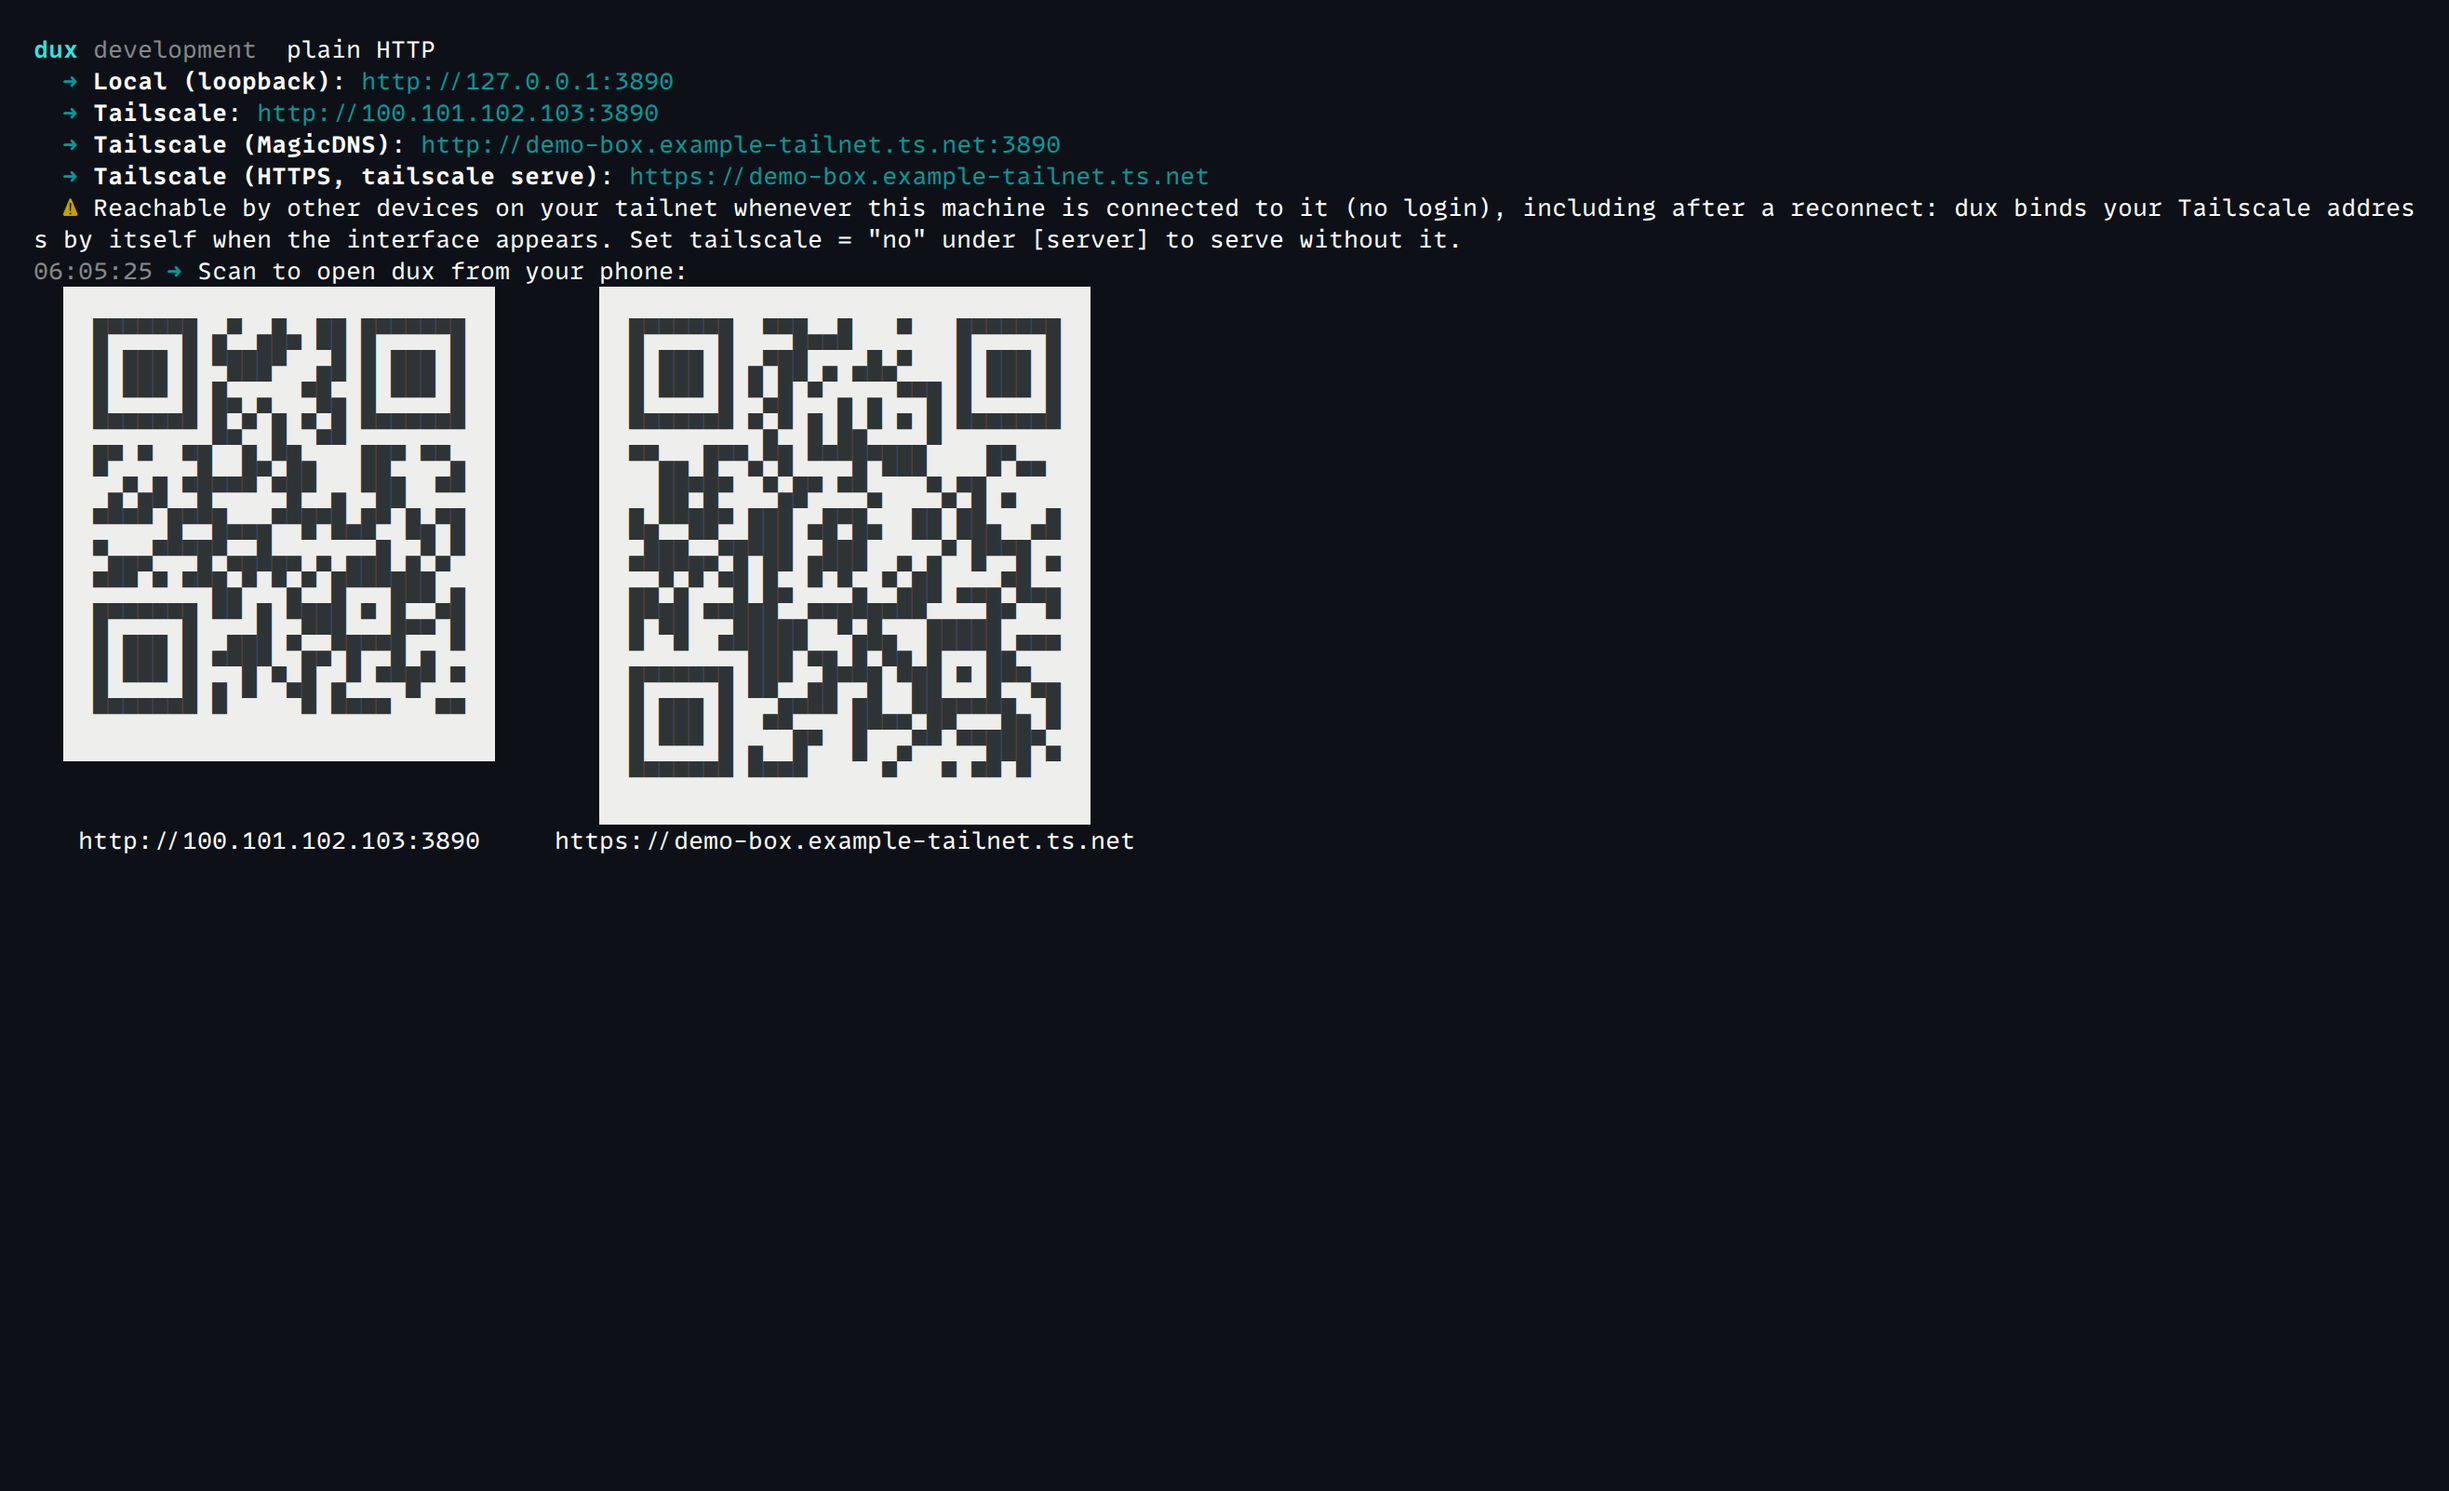
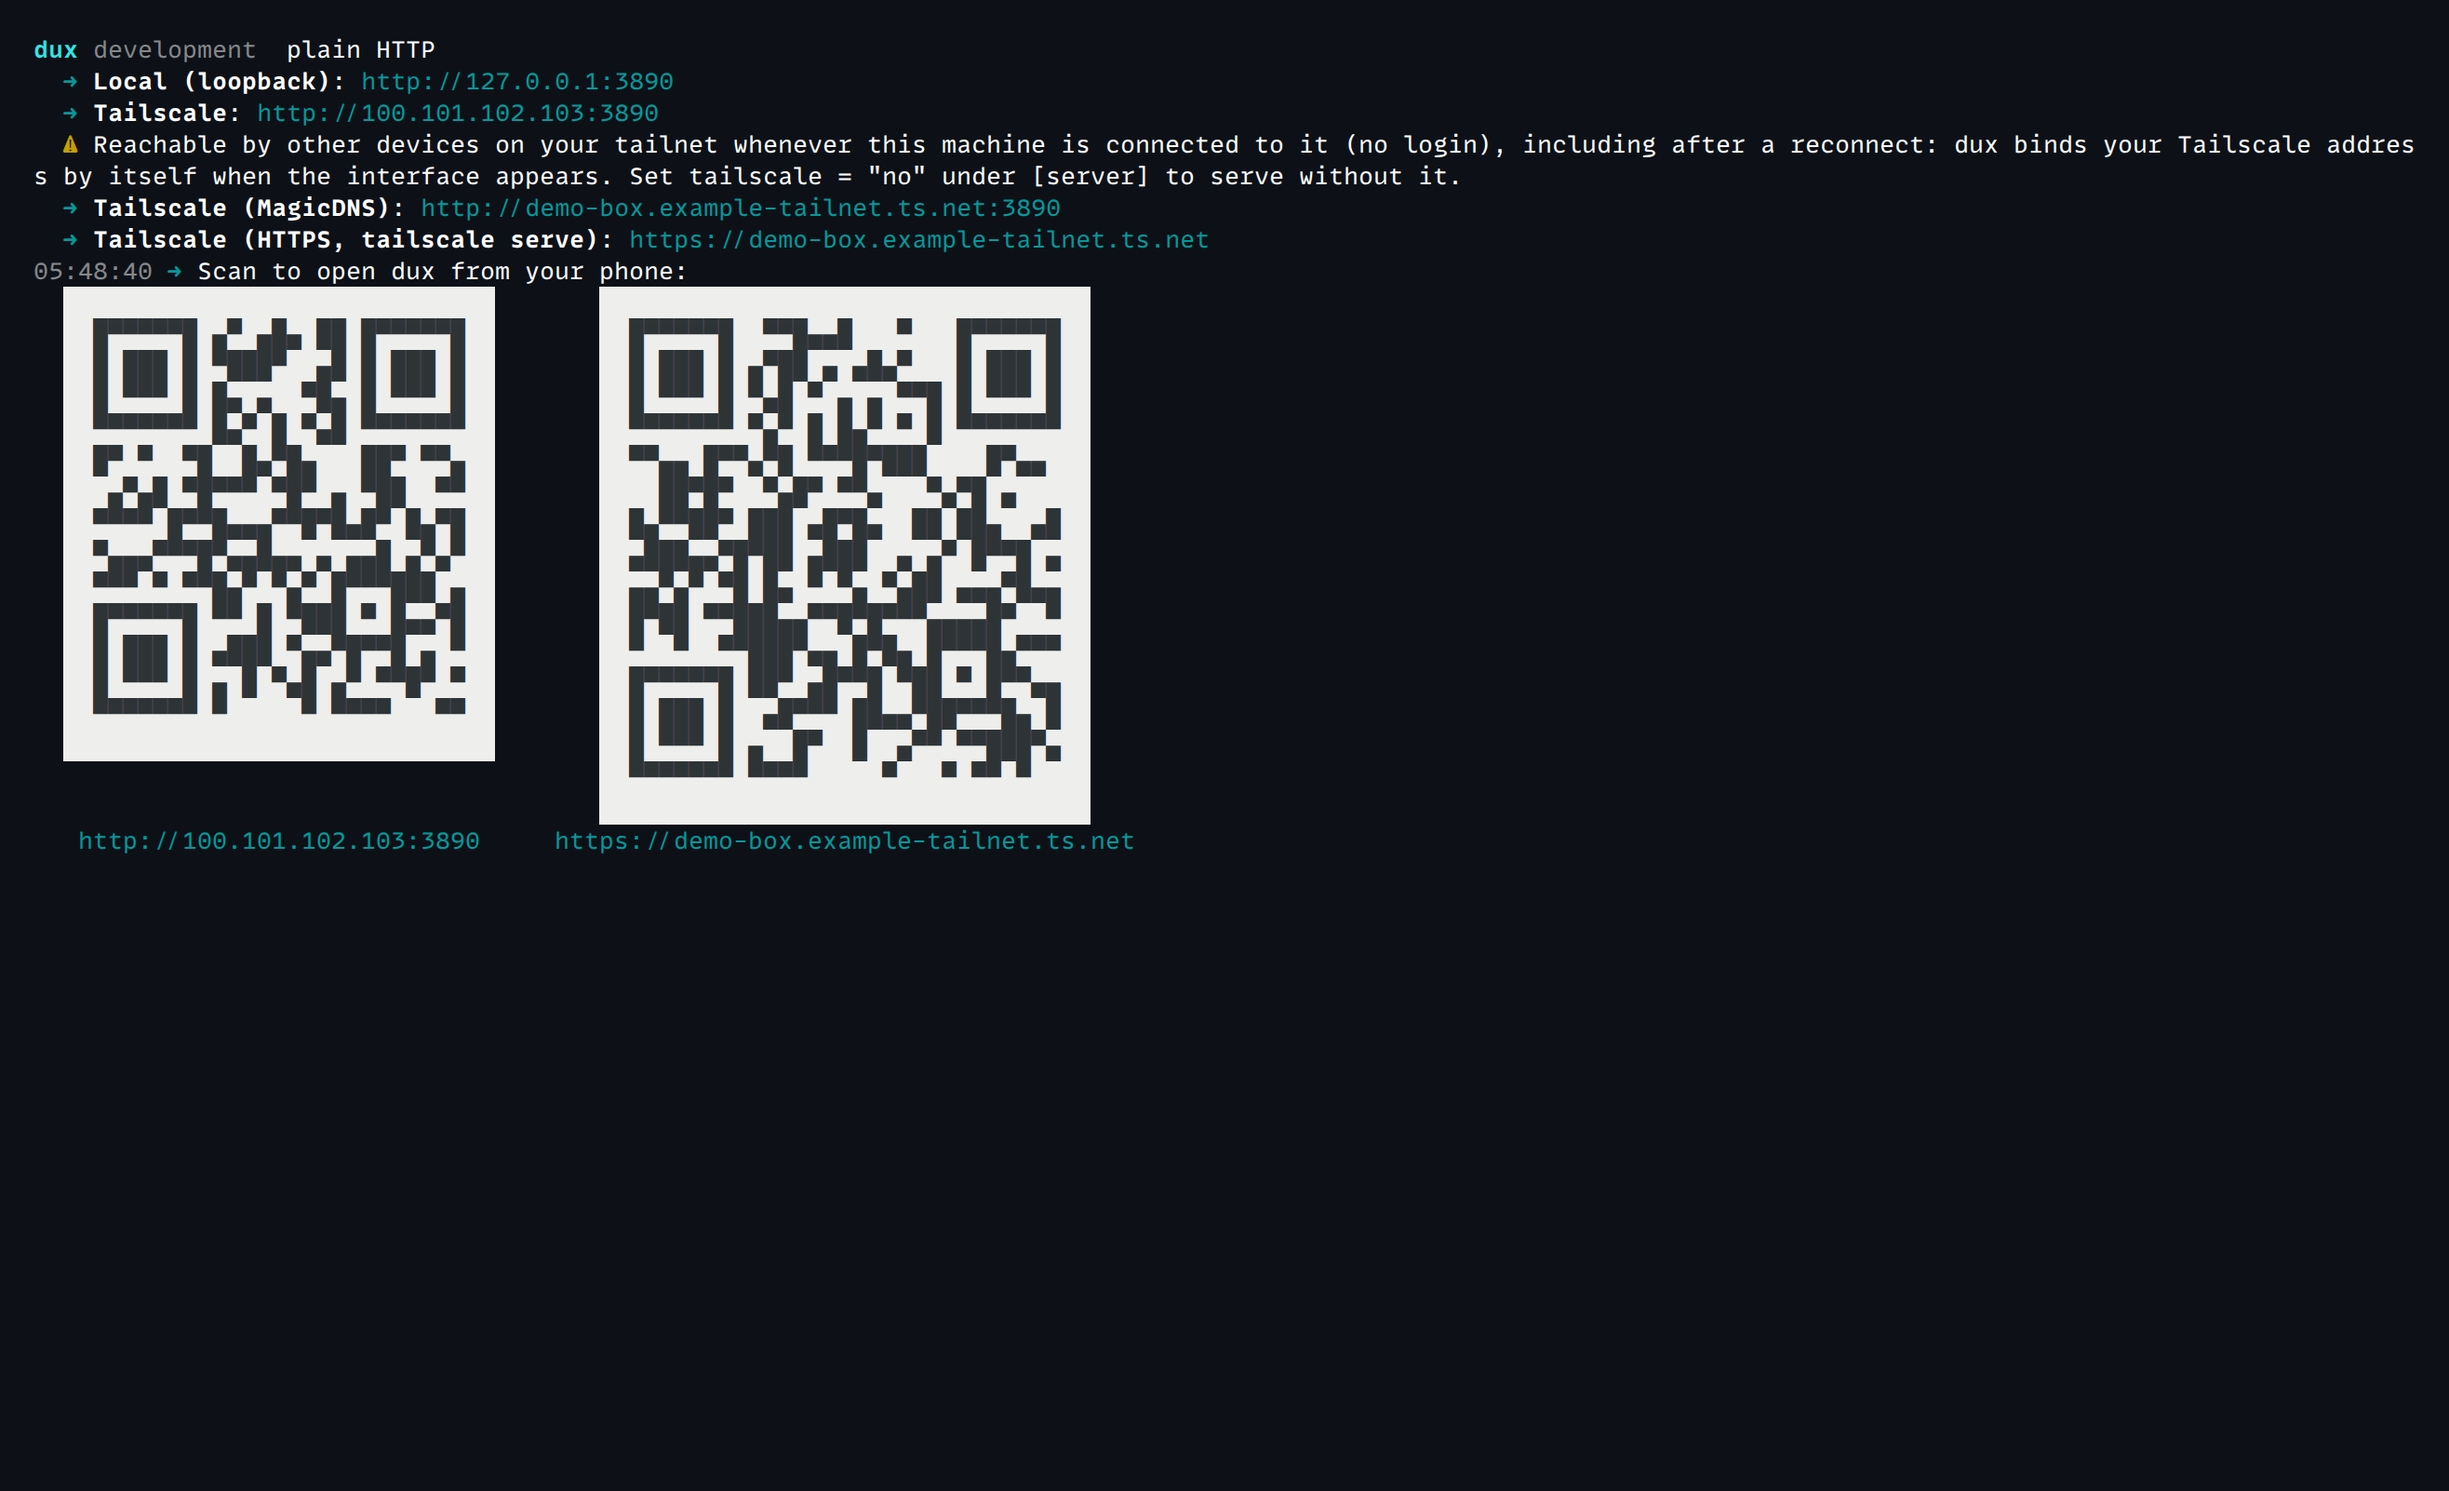
Hold the QR codes until the first look at Tailscale has answered, so the flip no longer prints a code for the Tailscale IP alone and then a second set when the name arrives, and reshoot both QR screenshots with the rows and codes as log lines

diff --git a/tools/preview-env/screens/scenes/tui-flip-qr-codes.js b/tools/preview-env/screens/scenes/tui-flip-qr-codes.js
@@ -1,6 +1,7 @@
 // The start-web-server flip's status screen on a tailnet where `tailscale serve`
-// already points at dux: the same two QR codes `dux server` prints, side by
-// side between the URLs and the Activity panel.
+// already points at dux: the header lists the MagicDNS and HTTPS URLs, and the
+// log shows the same rows and the same two QR codes `dux server` prints. Tall
+// enough that the whole block fits the log without scrolling.
 //
 // There is no tailnet in the capture container, so the Tailscale CLI is a
 // stand-in answering with an obviously fake machine and tailnet, in the shapes
@@ -56,5 +57,5 @@ module.exports.expectText = [
 
 module.exports.file = "tui-flip-qr-codes.png"
 module.exports.cols = 160
-module.exports.rows = 45
+module.exports.rows = 56
 module.exports.theme = "dux_dark"

diff --git a/tools/preview-env/screens/scenes/server-qr-codes.js b/tools/preview-env/screens/scenes/server-qr-codes.js
@@ -1,6 +1,6 @@
 // `dux server` on a tailnet where `tailscale serve` already points at it: the
-// banner lists the MagicDNS and HTTPS URLs beside the listeners, and the two QR
-// codes sit side by side under it, the Tailscale IP on the left and the HTTPS
+// MagicDNS and HTTPS rows follow the banner's listeners, and the two QR codes
+// sit side by side under them, the Tailscale IP on the left and the HTTPS
 // name on the right.
 //
 // There is no tailnet in the capture container, so the Tailscale CLI is a

diff --git a/crates/dux-web/src/lib.rs b/crates/dux-web/src/lib.rs
@@ -1239,6 +1239,13 @@ impl TailscaleLoop {
             }
             self.last_rows = rows;
         }
+        // No codes before the first look lands. A serve that cannot wait for it
+        // (the flip, the background server) turns here first with the IP alone,
+        // and printing that code means a second set a moment later when the
+        // name arrives; every request answers "checking" until then anyway.
+        if self.funnel_lockout.get() == crate::host_guard::FunnelLockout::Checking {
+            return;
+        }
         let magic_dns = urls.magic_dns().map(str::to_string);
         let pair: Vec<String> = urls.ip.into_iter().chain(magic_dns).collect();
         if self.last_qr.as_ref() == Some(&pair) {
@@ -5059,6 +5066,58 @@ mod live_tailscale_mode_tests {
             .filter(|t| t.contains("Scan to open dux"))
             .count();
         assert_eq!(captions, 2, "a fresh pair of codes for the new name");
+        h.finish().await;
+    }
+
+    /// The flip cannot wait for its first look before serving, so the loop
+    /// turns while that look is still out. No QR code is printed until it lands:
+    /// a code for the Tailscale IP alone, superseded a moment later by the
+    /// pair, is a second set of codes for one serve, and every request answers
+    /// "checking" until then anyway.
+    #[tokio::test]
+    async fn no_qr_code_is_printed_until_the_first_look_lands() {
+        let (_primary, primary_addr) = primary_listener();
+        let ring = dux_core::activity::ActivityRing::new(2000);
+        let console = Console::capture(ring.clone());
+        console.set_qr_codes(true);
+        let opened = Arc::new(AtomicBool::new(false));
+        let gate = Arc::clone(&opened);
+        let identify: crate::IdentityProbe = Arc::new(move || {
+            while !gate.load(Ordering::SeqCst) {
+                std::thread::sleep(Duration::from_millis(5));
+            }
+            Ok(named(
+                "demo-box.example-tailnet.ts.net",
+                &[("https://demo-box.example-tailnet.ts.net", false)],
+            ))
+        });
+        let leg: SocketAddr = format!("100.101.102.103:{}", primary_addr.port())
+            .parse()
+            .unwrap();
+        let h = Harness::start_inner(
+            TailscaleMode::Auto,
+            false,
+            Some(primary_addr),
+            Some(leg),
+            Arc::new(move || Ok(leg.ip())),
+            Some(identify),
+            console,
+        );
+        tokio::time::sleep(FAST_LOOK * 10).await;
+        let early: Vec<String> = ring_texts(&ring)
+            .into_iter()
+            .filter(|t| t.contains("Scan to open dux"))
+            .collect();
+        assert!(early.is_empty(), "codes before the first look: {early:?}");
+
+        opened.store(true, Ordering::SeqCst);
+        until_ring_says(&ring, &["Scan to open dux from your phone:"]).await;
+        tokio::time::sleep(FAST_LOOK * 5).await;
+        let captions = ring_texts(&ring)
+            .iter()
+            .filter(|t| t.contains("Scan to open dux"))
+            .count();
+        assert_eq!(captions, 1, "one set of codes, the pair");
         h.finish().await;
     }
 

diff --git a/website/docs/tailscale.md b/website/docs/tailscale.md
@@ -278,12 +278,12 @@ show two QR codes, so a phone on your tailnet opens dux by pointing its camera a
 screen: the Tailscale IP address on the left, and the MagicDNS name on the right, which is
 the `https://` URL when `tailscale serve` points at dux. Each code has its URL printed
 under it. They sit side by side when the window is wide enough and stack when it is not,
-and they appear again whenever those addresses change, so a rename or a new serve route
-gets a fresh pair.
+and they appear once dux's first look at Tailscale has answered, then again whenever
+those addresses change, so a rename or a new serve route gets a fresh pair.
 
-![The dux server console: the banner lists the loopback, Tailscale, MagicDNS and HTTPS addresses, and two QR codes sit side by side under it, one for http://100.101.102.103:3890 and one for https://demo-box.example-tailnet.ts.net.](/screens/server-qr-codes.png)
+![The dux server console: the banner lists the loopback and Tailscale addresses, the MagicDNS and HTTPS rows follow, and two QR codes sit side by side under them, one for http://100.101.102.103:3890 and one for https://demo-box.example-tailnet.ts.net.](/screens/server-qr-codes.png)
 
-![The start-web-server flip's status screen: the dux logo, then every address dux answers on including http://demo-box.example-tailnet.ts.net:3890 and https://demo-box.example-tailnet.ts.net, the same two QR codes side by side with their URLs under them, and the Activity panel below.](/screens/tui-flip-qr-codes.png)
+![The start-web-server flip's status screen: the dux logo, then every address dux answers on including http://demo-box.example-tailnet.ts.net:3890 and https://demo-box.example-tailnet.ts.net, and below it the Log panel with the same banner, MagicDNS and HTTPS rows and two QR codes side by side that dux server prints.](/screens/tui-flip-qr-codes.png)
 
 `dux server` prints them only when its output is a terminal, so a log piped to a file stays
 clean. The background server (`serve_while_tui`) never shows them, because the terminal UI
